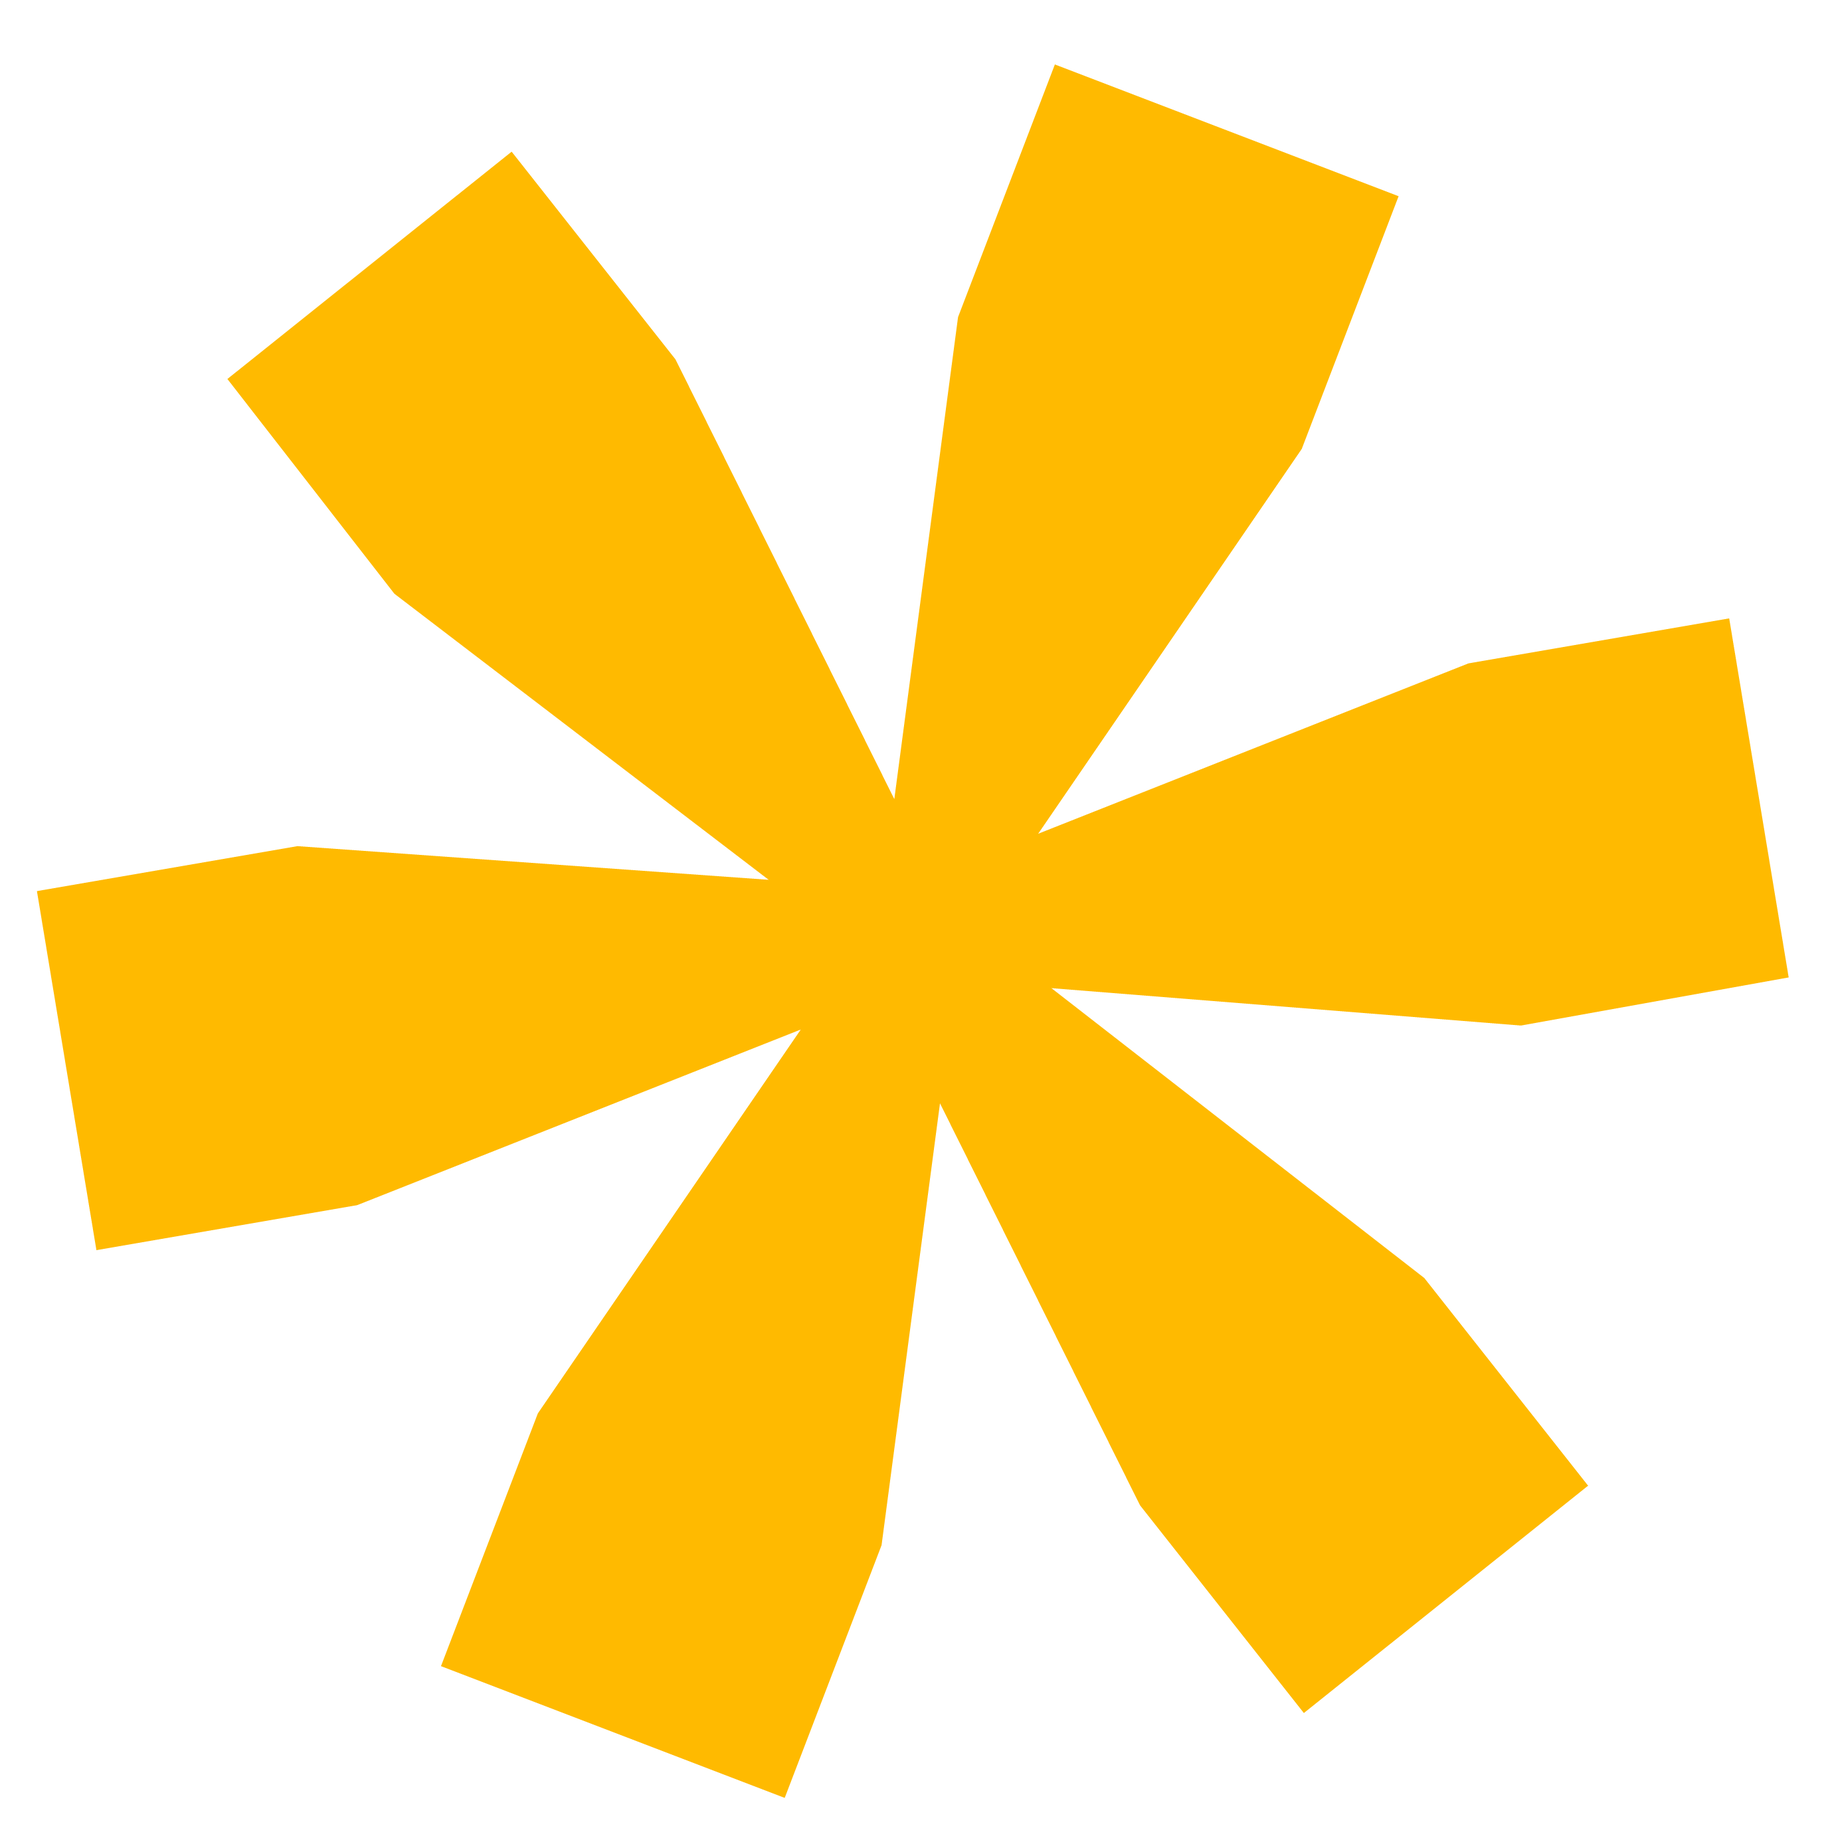
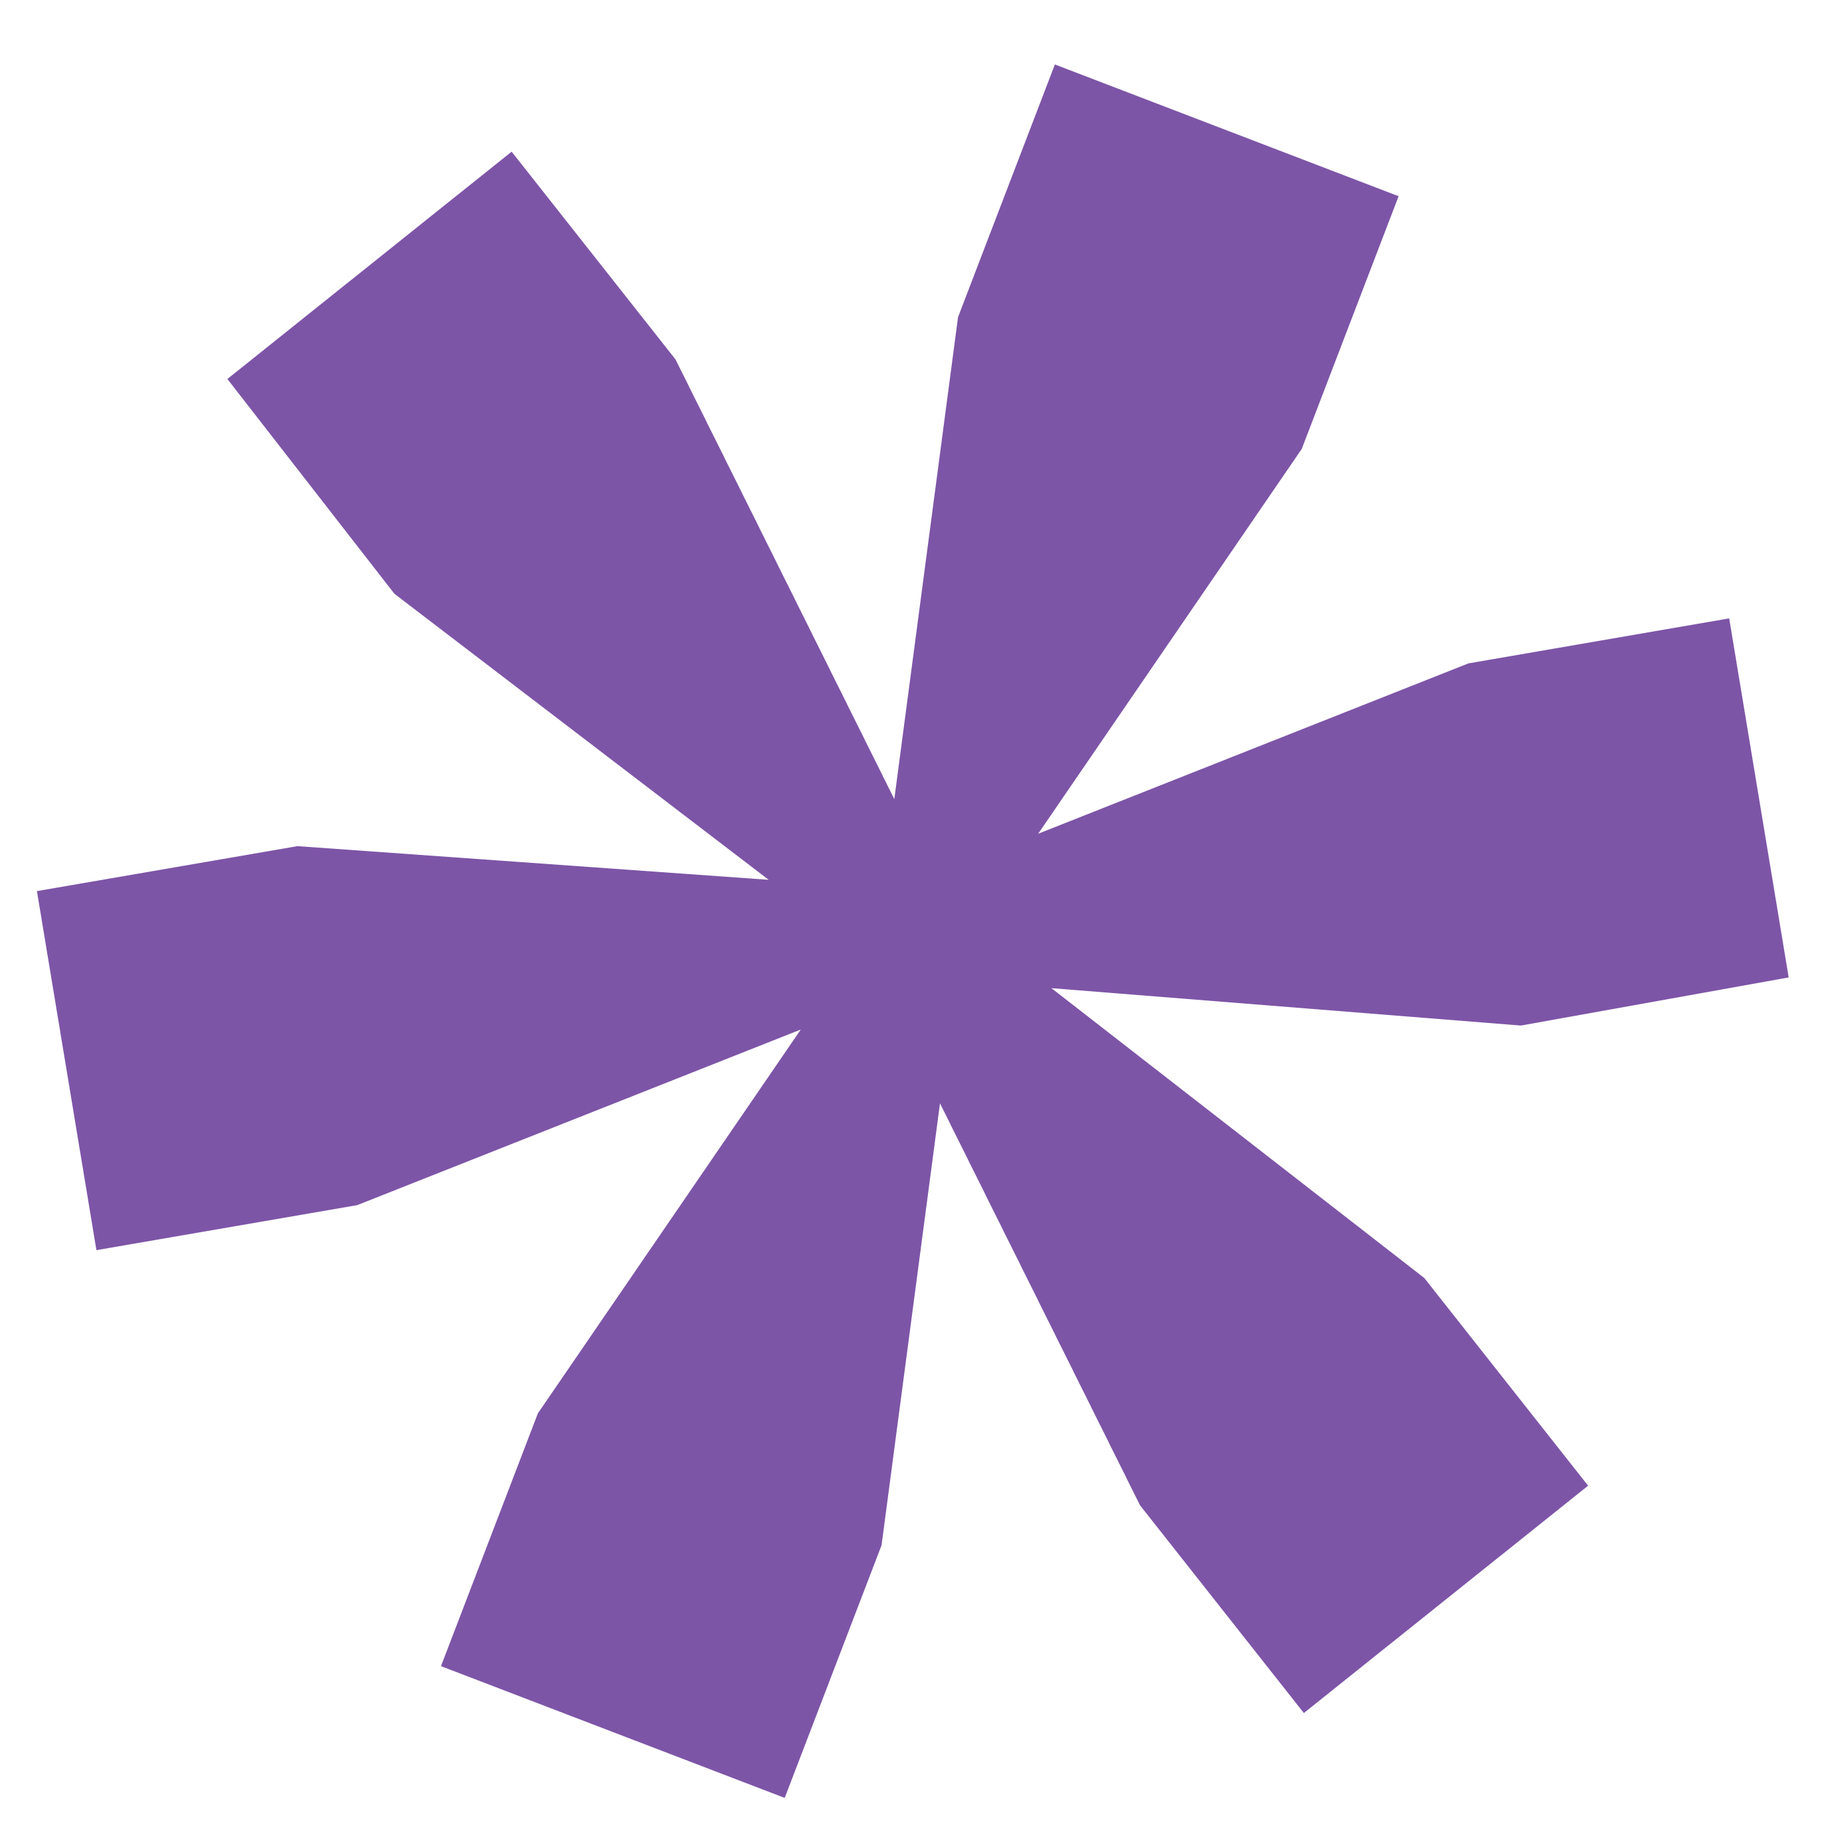
checkpoint presencial

diff --git a/src/components/pages/About.js b/src/components/pages/About.js
@@ -1,7 +1,7 @@
-import React, { useEffect, useRef, useState } from 'react';
+import React, { useEffect, useRef } from 'react';
 import Gus from '../../assets/images/foto-gus.png';
 import BgGus from '../../assets/images/bg-gus.png';
-import { Grid, Box, Typography, Stack, Divider, Button } from '@mui/material';
+import { Grid, Box, Typography, Stack, Divider } from '@mui/material';
 import { gsap } from 'gsap';
 import { ScrollTrigger } from 'gsap/ScrollTrigger';
 import './About.css';
@@ -18,6 +18,7 @@ const About = () => {
     const gusRef = useRef(null);
     const logosRef = useRef([]);
     const servicesRef = useRef([]);
+    const corporationsRef = useRef([]);
 
 
     const wrapLinesInSpans = (elementRef) => {
@@ -93,20 +94,34 @@ const About = () => {
                 toggleActions: 'play none none none'
             }
         });
-
-
+        gsap.fromTo(corporationsRef.current, {
+            opacity: 0,
+            y: 50
+        }, {
+            opacity: 1,
+            y: 0,
+            stagger: 0.2,
+            duration: 1,
+            ease: 'power3.out',
+            scrollTrigger: {
+                trigger: corporationsRef.current,
+                start: 'top 80%',
+                end: 'bottom 20%',
+                toggleActions: 'play none none none'
+            }
+        });
     }, []);
 
     const spanStyleLetter = {
         fontFamily: "superpop-variable, sans-serif",
         fontVariationSettings: "'wght' 200",
-        color: '#FFBA00',
+        color: '#7D55A7',
     };
 
     const spanStyleSymbol = {
         fontFamily: "superpop-variable, sans-serif",
         fontVariationSettings: "'wght' 200",
-        color: '#FFBA00',
+        color: '#7D55A7',
         verticalAlign: 'top',
         fontSize: '2em',
         position: 'relative',
@@ -209,15 +224,15 @@ const About = () => {
                         }}
                         justifyContent="center"
                         alignItems="center"
-                        pt={12}>
+                        pt={{ xs: 5, md: 12 }}>
                         <Grid container
                             justifyItems="center"
                             alignItems="center"
                             gap={3}
                             xs={12} md={12}>
                             <Box sx={{ px: { xs: 4, md: 15 } }}>
-                                <Stack direction={{ sx: "column", md: "row" }} gap={10}>
-                                    <Stack gap={3} xs={12} md={4} ref={el => servicesRef.current[1] = el}>
+                                <Stack direction={{ sx: "column", md: "row" }} gap={{ xs: 5, md: 10 }}>
+                                    <Stack gap={{ xs: 2, md: 3 }} xs={12} md={4} ref={el => servicesRef.current[1] = el}>
                                         <Typography variant='body2'>1</Typography>
                                         <Divider color="white"></Divider>
                                         <Typography variant='h4'>
@@ -227,7 +242,7 @@ const About = () => {
                                             I create comprehensive visual solutions, from animated videos to static and dynamic assets. My expertise covers advertising, web design (UI/UX), ad banners, landing pages, and complete websites, ensuring a impactful visual experience.
                                         </Typography>
                                     </Stack>
-                                    <Stack gap={3} xs={12} md={4} ref={el => servicesRef.current[2] = el} >
+                                    <Stack gap={{ xs: 2, md: 3 }} xs={12} md={4} ref={el => servicesRef.current[2] = el} >
                                         <Typography variant='body2'>2</Typography>
                                         <Divider color="white"></Divider>
                                         <Typography variant='h4'>
@@ -237,8 +252,8 @@ const About = () => {
                                             I optimize workflows through process restructuring, implementation of efficient Kanban systems, and development of custom tools. My focus is on increasing your team's productivity and operational efficiency.
                                         </Typography>
                                     </Stack>
-                                    <Stack gap={3} xs={12} md={4} ref={el => servicesRef.current[3] = el}>
-                                        <Typography variant='body2'>2</Typography>
+                                    <Stack gap={{ xs: 2, md: 3 }} xs={12} md={4} ref={el => servicesRef.current[3] = el}>
+                                        <Typography variant='body2'>3</Typography>
                                         <Divider color="white"></Divider>
                                         <Typography variant='h4'>
                                             Web Development<br />
@@ -263,7 +278,7 @@ const About = () => {
                         }}
                         justifyContent="center"
                         alignItems="center"
-                        pt={12}>
+                        pt={{ xs: 5, md: 12 }}>
                         <Stack container
                             direction="row"
                             sx={{
@@ -272,7 +287,7 @@ const About = () => {
                                 alignItems: "center",
                                 p: 3
                             }}>
-                            <Grid item xs={12} display="flex" gap={15} justifyContent="space-around" alignItems="center" padding={1} flexWrap="wrap" className="logo">
+                            <Grid item xs={12} display="flex" gap={{ xs: 5, md: 15 }} justifyContent="space-around" alignItems="center" padding={1} flexWrap="wrap" className="logo">
                                 <Box ref={el => logosRef.current[0] = el} component="img" src={logos.Diniz} id='diniz' alt="Óticas Diniz Logo" className="logo" />
                                 <Box ref={el => logosRef.current[1] = el} component="img" src={logos.Charlie} id='charlie' alt="Charlie Logo" className="logo" />
                                 <Box ref={el => logosRef.current[3] = el} component="img" src={logos.Vml} id='vml' alt="Vml Logo" className="logo" />
@@ -282,26 +297,26 @@ const About = () => {
                             </Grid>
 
                         </Stack>
-                        <Grid container display="flex" gap={0} mx={10} sx={{ marginTop: { xs: 0, md: 20 }, flexDirection: { xs: 'column', md: 'row' }, justifyContent: "center", alignItems: "flex-start", p: 3 }}>
-                            <Grid item xs={12} md={5} px={3}>
-                                <Stack gap={3}>
-                                    <Typography variant='h5'>
-                                        Daily Tasks<br />
+                        <Grid container display="flex" gap={5} mx={{ md: 10, sx: 0 }} sx={{ marginTop: { xs: 15, md: 20 }, flexDirection: { xs: 'column', md: 'row' }, justifyContent: "center", alignItems: "flex-start", p: 1 }}>
+                            <Grid item xs={12} md={5} px={3} ref={el => corporationsRef.current[0] = el}>
+                                <Stack gap={{ xs: 2, md: 3 }} >
+                                    <Typography variant='h4'>
+                                        From Retail to Tech Giants<br />
                                     </Typography>
                                     <Divider color="white"></Divider>
                                     <Typography variant='body2'>
-                                        aa
+                                        My career is defined by a diverse range of experiences spanning startups, large corporations, and global accounts, both in advertising agencies and corporate environments. This unique journey extends from retail to cutting-edge technology, including companies such as Óticas Diniz, Sultan, VML, Dell, and Alienware. This trajectory has provided me with a comprehensive and versatile perspective, essential for developing innovative solutions.
                                     </Typography>
                                 </Stack>
                             </Grid>
-                            <Grid item xs={12} md={5} px={3}>
-                                <Stack gap={3}>
-                                    <Typography variant='h5'>
-                                        Key Accomplishments<br />
+                            <Grid item xs={12} md={5} px={3} ref={el => corporationsRef.current[1] = el}>
+                                <Stack gap={{ xs: 2, md: 3 }}>
+                                    <Typography variant='h4'>
+                                        Mastering Adaptability<br />
                                     </Typography>
                                     <Divider color="white"></Divider>
                                     <Typography variant='body2'>
-                                        aaa
+                                        I've acquired valuable skills navigating different organizational cultures and tackling varied challenges. This blend of agency and in-house experiences has not only broadened my technical knowledge but also enhanced my adaptability and strategic vision. Today, I apply this diverse background to each project, offering a unique approach that combines creativity, strategy, and practical results, ready to add significant value to your next challenge.
                                     </Typography>
                                 </Stack>
                             </Grid>

diff --git a/public/index.html b/public/index.html
@@ -3,14 +3,22 @@
 
 <head>
   <meta charset="utf-8" />
-  <link rel="icon" href="%PUBLIC_URL%/favicon.ico" />
+  <link rel="icon" href="%PUBLIC_URL%/gusfav.ico" />
   <meta name="viewport" content="width=device-width, initial-scale=1" />
   <meta name="theme-color" content="#000000" />
-  <meta name="description" content="Web site created using create-react-app" />
+  <meta name="description" content="Criatividade estratégica para um mundo em evolução" />
   <link rel="apple-touch-icon" href="%PUBLIC_URL%/logo192.png" />
   <link rel="stylesheet" href="https://use.typekit.net/fkk4iri.css">
   <link rel="manifest" href="%PUBLIC_URL%/manifest.json" />
   <title>Gustavo Hesse</title>
+
+  <!-- Meta Tags Open Graph -->
+  <meta property="og:title" content="Gustavo Hesse" />
+  <meta property="og:description" content="Criatividade estratégica para um mundo em evolução" />
+  <meta name="image" property="og:image" content="https://gustavohesse.com.br/portfolio.png" />
+  <meta property="og:url" content="https://gustavohesse.com.br" />
+  <meta property="og:type" content="website" />
+  <meta property="og:site_name" content="From design to code">
 </head>
 
 <body>

diff --git a/src/theme.js b/src/theme.js
@@ -4,11 +4,18 @@ const theme = createTheme({
     typography: {
         fontFamily: 'proxima-nova, sans-serif',
         h3: {
-            fontSize: '3em',
+            fontSize: '3.5em',
             '@media (max-width:600px)': {
                 fontSize: '2em',
             },
         },
+        h4: {
+            fontSize: '2.2em',
+            '@media (max-width:600px)': {
+                fontSize: '1.5em',
+            },
+        },
+
         h5: {
             fontSize: '1.7em',
             '@media (max-width:600px)': {
@@ -18,9 +25,9 @@ const theme = createTheme({
     },
     palette: {
         white: {
-            light: '#f6f6f6',
-            main: '#f6f6f6',
-            dark: '#e0e0e0',
+            light: '#fcfcf3',
+            main: '#fcfcf3',
+            dark: '#fcfcf3',
             contrastText: '#000000'
         },
         black: {

diff --git a/src/components/layout/Navbar.js b/src/components/layout/Navbar.js
@@ -11,11 +11,11 @@ function Navbar() {
     const isActive = (path) => location.pathname === path;
 
     return (
-        <AppBar position="fixed" color="white" elevation={0} sx={{ zIndex: 10 }}>
+        <AppBar position="fixed" color="fcfcf3" elevation={0} sx={{ zIndex: 10 }}>
             <Toolbar sx={{ justifyContent: 'space-between' }}>
                 <Box component="nav">
                     <Link component={RouterLink} to="/" sx={{ display: 'flex', alignItems: 'center' }}>
-                        <Box component="img" src={logo} alt="Logo" sx={{ height: { xs: 20, sm: 25 }}} />
+                        <Box component="img" src={logo} alt="Logo" sx={{ height: { xs: 20, sm: 25 } }} />
                     </Link>
                 </Box>
                 <Box>

diff --git a/src/components/layout/Footer.js b/src/components/layout/Footer.js
@@ -1,6 +1,6 @@
 import React from 'react';
 import { Box, IconButton } from '@mui/material';
-import { MailOutline, LinkedIn, GitHub } from '@mui/icons-material';
+import { MailOutline, LinkedIn, GitHub, WhatsApp } from '@mui/icons-material';
 
 function Footer() {
     return (
@@ -27,6 +27,9 @@ function Footer() {
                 </IconButton>
                 <IconButton color="inherit" target='blank' href='https://www.linkedin.com/in/guhesse/'>
                     <LinkedIn />
+                </IconButton>
+                <IconButton color="inherit" target='blank' href='https://wa.me/5511970981101'>
+                    <WhatsApp />
                 </IconButton>
             </Box>
         </Box>

diff --git a/src/components/pages/About.css b/src/components/pages/About.css
@@ -1,12 +1,12 @@
 .about-page {
     margin-top: 0;
     padding-top: 0;
-    background-color: #f6f6f6;
+    background-color: #fcfcf3;
     min-height: 100vh;
 }
 
 .section {
-    background-color: #f6f6f6;
+    background-color: #fcfcf3;
     padding: 1.5em 0;
 }
 
@@ -37,5 +37,13 @@
 
     .logo #dell {
         height: 2.1em;
+    }
+
+    .logo #alienware {
+        height: 2.3em;
+    }
+
+    .logo #sultan {
+        height: 1.8em;
     }
 }

diff --git a/src/services/api.js b/src/services/api.js
@@ -1,8 +1,8 @@
 //Development
-const API_BASE_URL = process.env.REACT_APP_API_BASE_URL || 'https://gustavohesse.com.br';
+// const API_BASE_URL = process.env.REACT_APP_API_BASE_URL || 'https://gustavohesse.com.br';
 
 //Production
-// const API_BASE_URL = 'https://gustavohesse.com.br';
+const API_BASE_URL = 'https://gustavohesse.com.br';
 
 export const fetchProjects = async () => {
     try {
